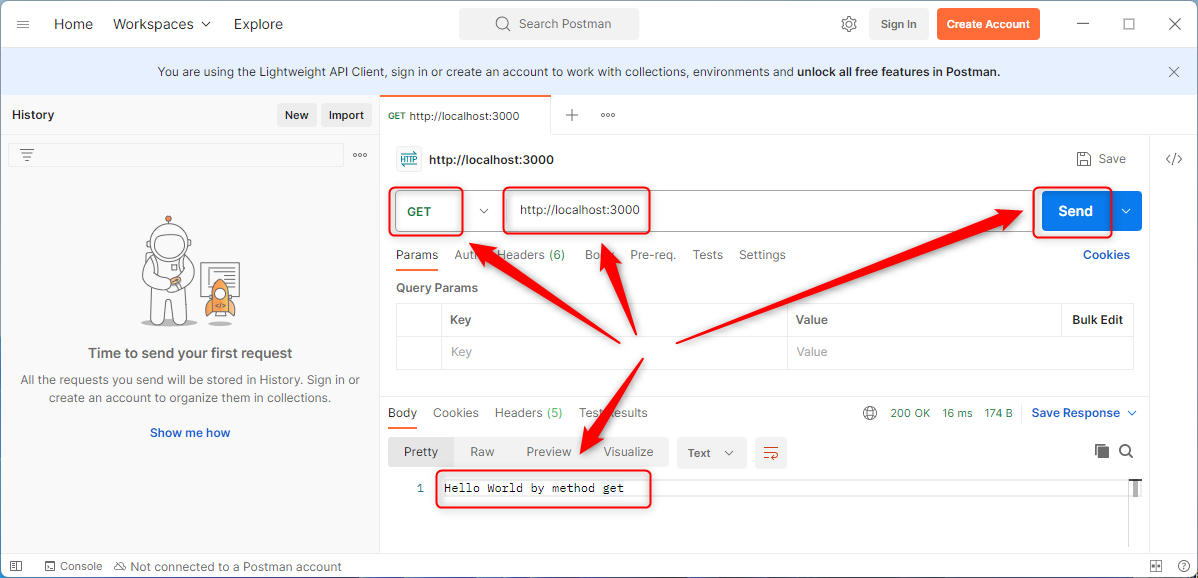
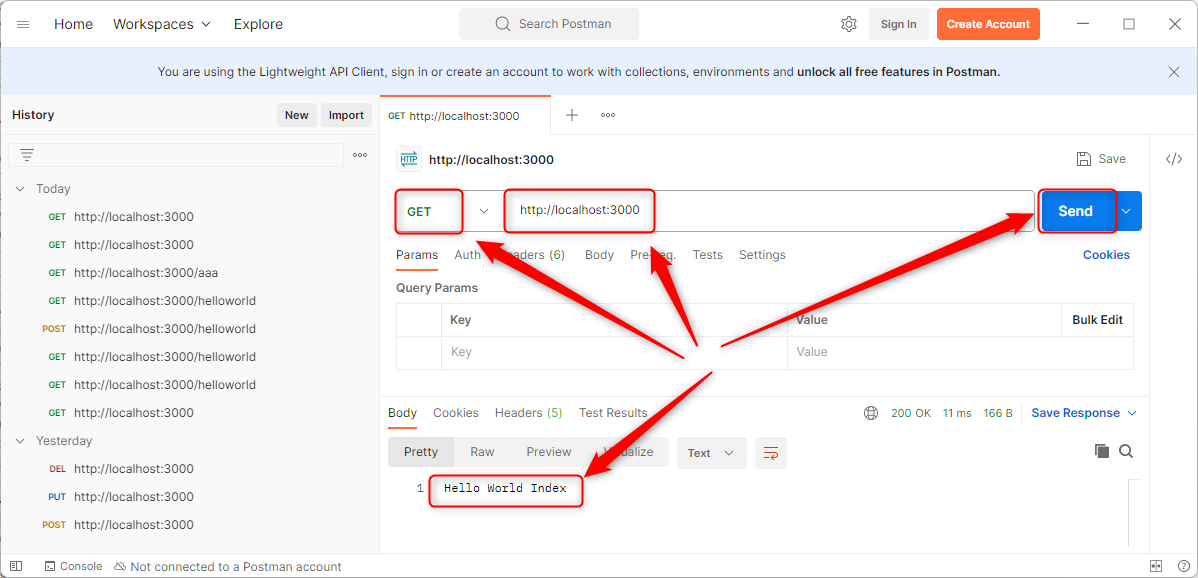
Update project js-http-api-helloworld-multiple

diff --git a/architectures/api/rest/js-http-api-helloworld-multiple/app.js b/architectures/api/rest/js-http-api-helloworld-multiple/app.js
@@ -4,11 +4,14 @@ const port = 3000;
 const server = http.createServer((req, res) => {
 
   var method = req.method.toLocaleLowerCase();
-  var message = `Hello World by method ${method}`;
 
-  res.statusCode = 200;
-  res.setHeader('Content-Type', 'text/plain');
-  res.end(message);
+  if ('get' == method && '/' == req.url) {
+    displayMessage('Hello World Index', res, 200);
+  } else if ('get' == method && '/helloworld' == req.url) {
+    displayMessage('Hello World Message', res, 200);
+  } else {
+    displayMessage('Resource Not Found', res, 404);
+  }
 
 });
 
@@ -19,3 +22,11 @@ server.listen(port, function(error) {
     console.log('Server is listening on port ' + port)
   }
 });
+
+function displayMessage(message, res, statusCode) {
+
+  res.statusCode = statusCode;
+  res.setHeader('Content-Type', 'text/plain');
+  res.end(message);
+
+}

diff --git a/architectures/api/rest/js-http-api-helloworld-multiple/README.md b/architectures/api/rest/js-http-api-helloworld-multiple/README.md
@@ -8,13 +8,11 @@ USAGE COMMANDS
 Usage steps:
 1. In a command line tool start application with `node app.js`
 1. In a http client (e.g. Postman) use **GET** method and visit `http://localhost:3000`
-   * Expected message **Hello World by method get**
-1. In a http client (e.g. Postman) use **POST** method and visit `http://localhost:3000`
-   * Expected message **Hello World by method post**
-1. In a http client (e.g. Postman) use **PUT** method and visit `http://localhost:3000`
-   * Expected message **Hello World by method put**
-1. In a http client (e.g. Postman) use **DELETE** method and visit `http://localhost:3000`
-   * Expected message **Hello World by method delete**
+   * Expected message **Hello World Index**
+1. In a http client (e.g. Postman) use **GET** method and visit `http://localhost:3000/helloworld`
+   * Expected message **Hello World Message**
+1. In a http client (e.g. Postman) use **GET** method and visit `http://localhost:3000/tmp`
+   * Expected message **Resource Not Found**
 1. Clean up environment 
      * In a command line tool stop application with `ctrl + C`
 
@@ -34,14 +32,12 @@ Display result:
 
 ![My Image](images/image-04.png)
 
-![My Image](images/image-05.png)
-
 
 DESCRIPTION
 -----------
 
 ##### Goal
-The goal of this project is to present how to create an application type **API REST** in **JavaScript** programming language with usage **http** library. This application consists of **multiple** API endpoints and displays **Hello World** message with http method - GET, POST, PUT and DELETE.
+The goal of this project is to present how to create an application type **API REST** in **JavaScript** programming language with usage **http** library. This application consists of **multiple** API endpoints: endpoint **index** and endpoint **helloworld**.
 
 ##### Terminology
 Terminology explanation:
@@ -52,7 +48,7 @@ Terminology explanation:
 ##### Flow
 The following flow takes place in this project:
 1. User via any http client sends request to application for the content.
-1. Application sends back response to user via http client with message. This message contains http method - GET, POST, PUT and DELETE.
+1. Application sends back response to user via http client with message. This message is different and depends on specific endpoint.
 
 ##### Launch
 To launch this application please make sure that the **Preconditions** are met and then follow instructions from **Usage** section.
